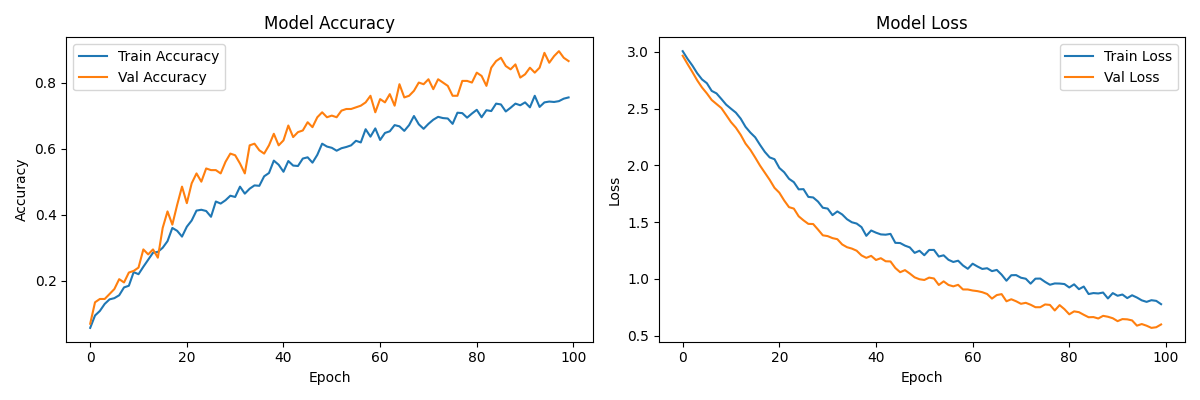
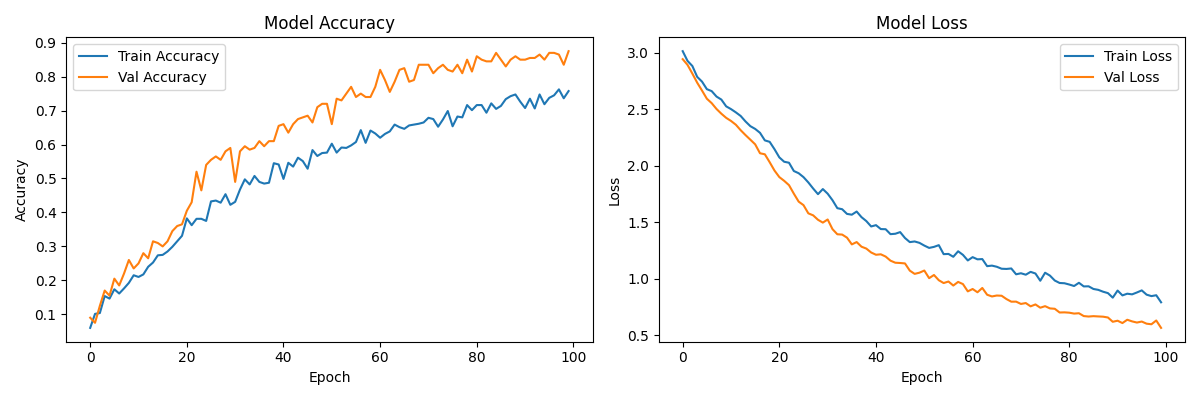
feat: entrenar modelo LSC y agregar tests del clasificador

diff --git a/ai/scripts/test_classifier.py b/ai/scripts/test_classifier.py
@@ -1,0 +1,84 @@
+# ============================================================
+#  Test Clasificador LSC — Tarea 4 Fase 2A
+#  Verifica que el clasificador funciona correctamente
+#  Ejecutar desde: backend/
+#  Comando: python ../ai/scripts/test_classifier.py
+# ============================================================
+
+import sys
+import os
+import numpy as np
+
+sys.path.insert(0, os.path.join(os.path.dirname(__file__), '../../backend'))
+
+from app.services.sign_classifier_service import SignClassifierService
+
+VOCABULARIO = [
+    "hola", "adios", "gracias", "por_favor", "si",
+    "no", "ayuda", "agua", "casa", "familia",
+    "trabajo", "escuela", "comer", "dormir", "bano",
+    "doctor", "policia", "emergencia", "nombre", "como_estas"
+]
+
+passed = 0
+failed = 0
+
+def test(nombre, condicion, detalle=""):
+    global passed, failed
+    if condicion:
+        print(f"  ✅ PASSED — {nombre}")
+        passed += 1
+    else:
+        print(f"  ❌ FAILED — {nombre}: {detalle}")
+        failed += 1
+
+print("\n🧪 Iniciando pruebas del clasificador LSC...\n")
+
+# Inicializar clasificador
+classifier = SignClassifierService()
+
+# ── Prueba 1: El modelo cargó correctamente ──
+test(
+    "Prueba 1: Modelo y labels cargados",
+    classifier.interpreter is not None and len(classifier.labels) == 20,
+    f"interpreter={classifier.interpreter}, labels={len(classifier.labels)}"
+)
+
+# ── Prueba 2: Predice con keypoints válidos ──
+keypoints_validos = list(np.random.uniform(0, 1, 63))
+sign, confidence = classifier.predict(keypoints_validos)
+test(
+    "Prueba 2: Predicción con 63 keypoints válidos",
+    sign is not None and confidence > 0,
+    f"sign={sign}, confidence={confidence}"
+)
+
+# ── Prueba 3: Rechaza keypoints inválidos ──
+keypoints_invalidos = [0.5] * 10
+sign_inv, conf_inv = classifier.predict(keypoints_invalidos)
+test(
+    "Prueba 3: Rechaza entrada con menos de 63 keypoints",
+    sign_inv is None and conf_inv == 0.0,
+    f"sign={sign_inv}, confidence={conf_inv}"
+)
+
+# ── Prueba 4: La confianza está entre 0 y 1 ──
+test(
+    "Prueba 4: Confianza es un valor entre 0 y 1",
+    0.0 <= confidence <= 1.0,
+    f"confidence={confidence}"
+)
+
+# ── Prueba 5: La seña devuelta existe en el vocabulario ──
+test(
+    "Prueba 5: La seña detectada pertenece al vocabulario LSC",
+    sign in VOCABULARIO,
+    f"sign='{sign}' no está en el vocabulario"
+)
+
+# ── Resumen ──
+print(f"\n📊 Resultado: {passed}/5 pruebas exitosas")
+if failed == 0:
+    print("🎉 Todas las pruebas pasaron.\n")
+else:
+    print(f"⚠️  {failed} prueba(s) fallaron.\n")